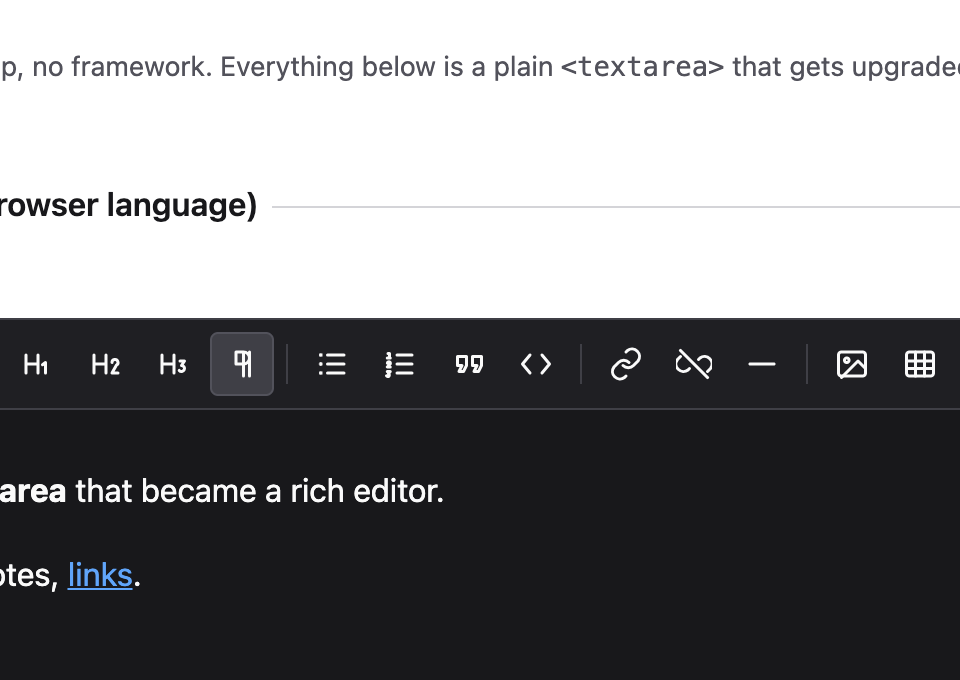
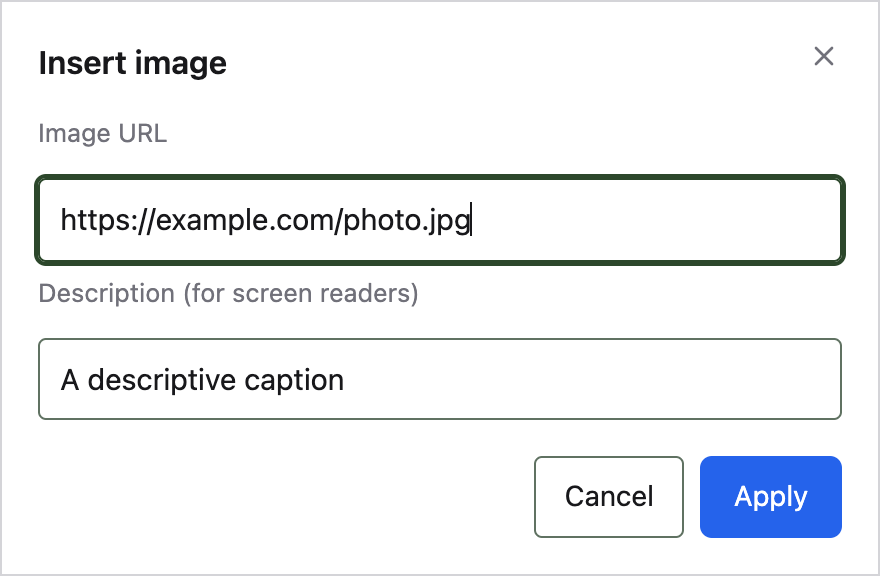
fix: the image dialog screenshot was a fragment of the page
Reported from the rendered README. The capture used hardcoded page
coordinates rather than the dialog's own bounds, so it framed whatever
happened to sit at 200,60 with a 480x340 window: some stray body text and
the bottom of a toolbar.

The dialog is now screenshotted as an element, so the frame is the dialog
whatever the layout above it does. The link dialog keeps deliberate page
context, but computed from its real bounds rather than guessed.

Also recaptured the link dialog, which still showed the input overflowing
its container (the box-sizing bug fixed after that shot was taken), and
dropped the word 'spike' from the demo page title and heading, which was
left over from when this was a proof of concept.

And fixed the last test race. The table-size assertions queried a dialog
field after a fixed 300ms without waiting for the dialog, so under load the
query threw, the value was never set, and the submit succeeded with the
defaults. That reads as a product failure but was a test one. Now waits for
the field.

168/168, five consecutive clean runs.

diff --git a/demo/index.html b/demo/index.html
@@ -3,7 +3,7 @@
 <head>
 <meta charset="utf-8">
 <meta name="viewport" content="width=device-width, initial-scale=1">
-<title>EnterraEdit spike, drop-in demo</title>
+<title>EnterraEdit, drop-in demo</title>
 <style>
  body {
  font-family: system-ui, -apple-system, "Segoe UI", Roboto, sans-serif;
@@ -64,7 +64,7 @@
 </head>
 <body>
 
-<h1>EnterraEdit spike</h1>
+<h1>EnterraEdit</h1>
 <p class="note">
  One script tag, no build step, no framework. Everything below is a plain
  <code>&lt;textarea&gt;</code> that gets upgraded in place, the form still
